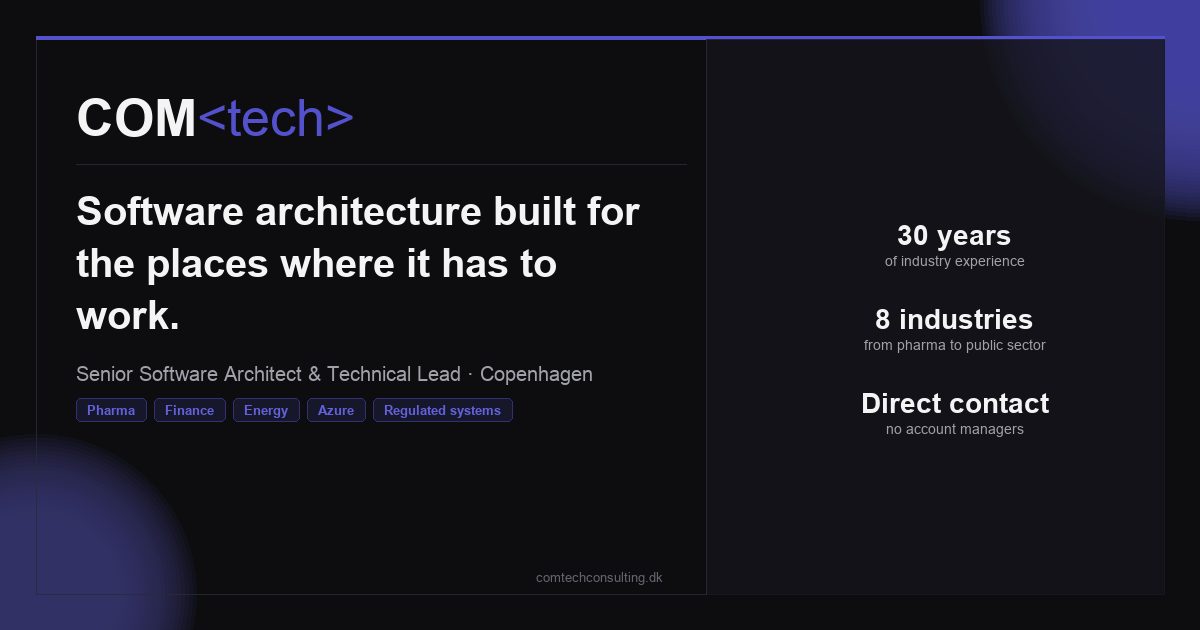
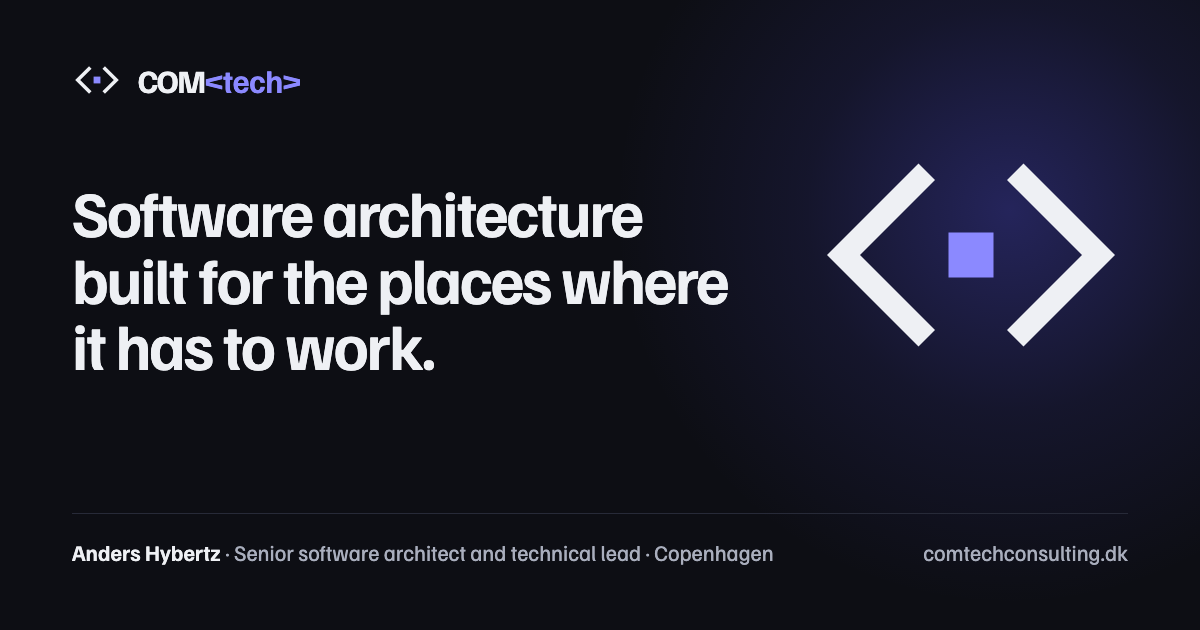
fix: court role out of recognition; deployment wording; new share image
- Recognition lists awards and nominations only; the court role stays in the work history
- AI capability reads 'from idea to deployment'
- og-default.png redrawn in the 2.0 design, generated by scripts/gen-og.mjs (replaces gen-og.py)

diff --git a/PRODUCT.md b/PRODUCT.md
@@ -89,12 +89,14 @@ telecom and mobile, healthcare and life sciences, banking).
   the work, never slogans.
 - The 2022 court appointment was a one-off: never present it as a standing title or a headline
   credential. The patent is mentioned only in the work history.
+  Recognition (`src/data/awards.json`) holds awards and nominations only, never roles.
 
 ## Evidence on Hand
 
 Real, verifiable, and the only proof the site may use:
 
-- Court appointment, Danmarks Domstole · Sø- og Handelsretten (2022) — `src/data/awards.json`.
+- Court appointment, Danmarks Domstole · Sø- og Handelsretten (2022): a one-off role, recorded in the
+  work history (`src/data/clients.json`), not under recognition.
 - PSQIT Innovation Prize, Novo Nordisk (for 2020, presented 2021); Best Individual Performance of the Year, 7N (2020,
   2016); Best Team nominee, 7N (2016) — same file.
 - Named client testimonials with real people and affiliations —

diff --git a/README.md b/README.md
@@ -30,7 +30,7 @@ src/
   styles/global.css      — design tokens, layout, typography, shared components
 public/
   favicon.svg            — site favicon
-  og-default.png         — default Open Graph image
+  og-default.png         — default Open Graph image (regenerate with `node scripts/gen-og.mjs`)
   CNAME                  — custom domain for GitHub Pages
   robots.txt             — search engine directives
 .github/workflows/
